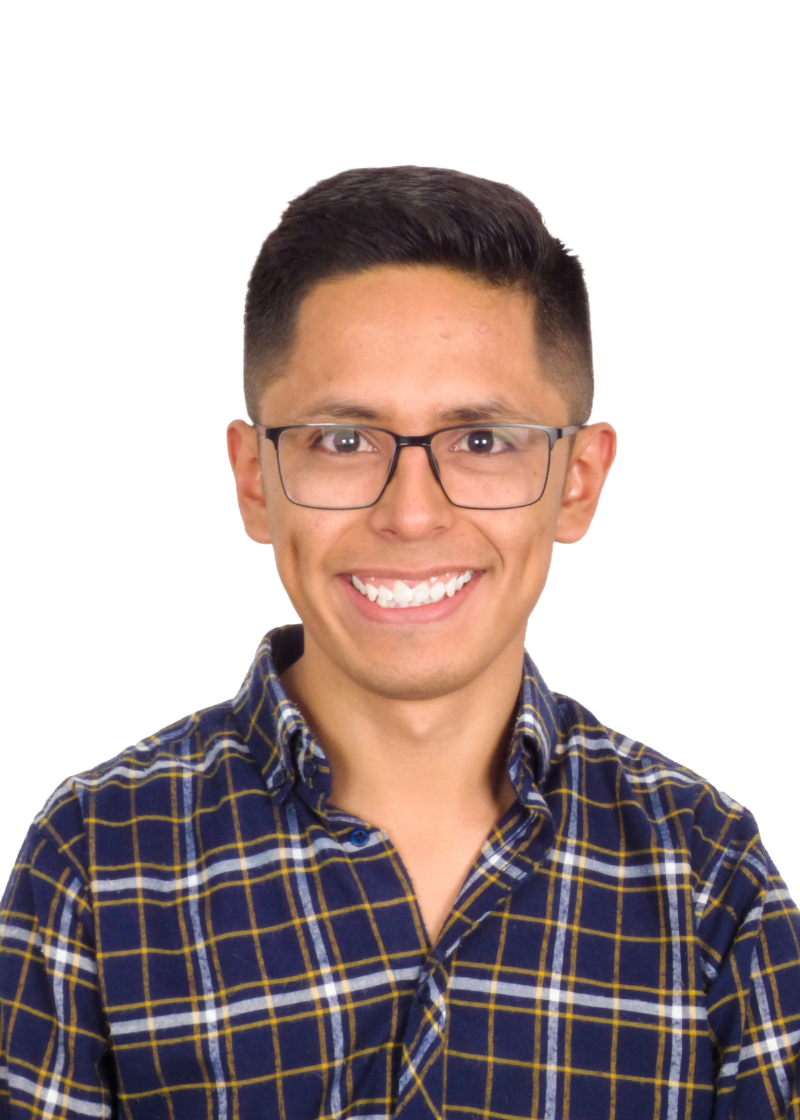
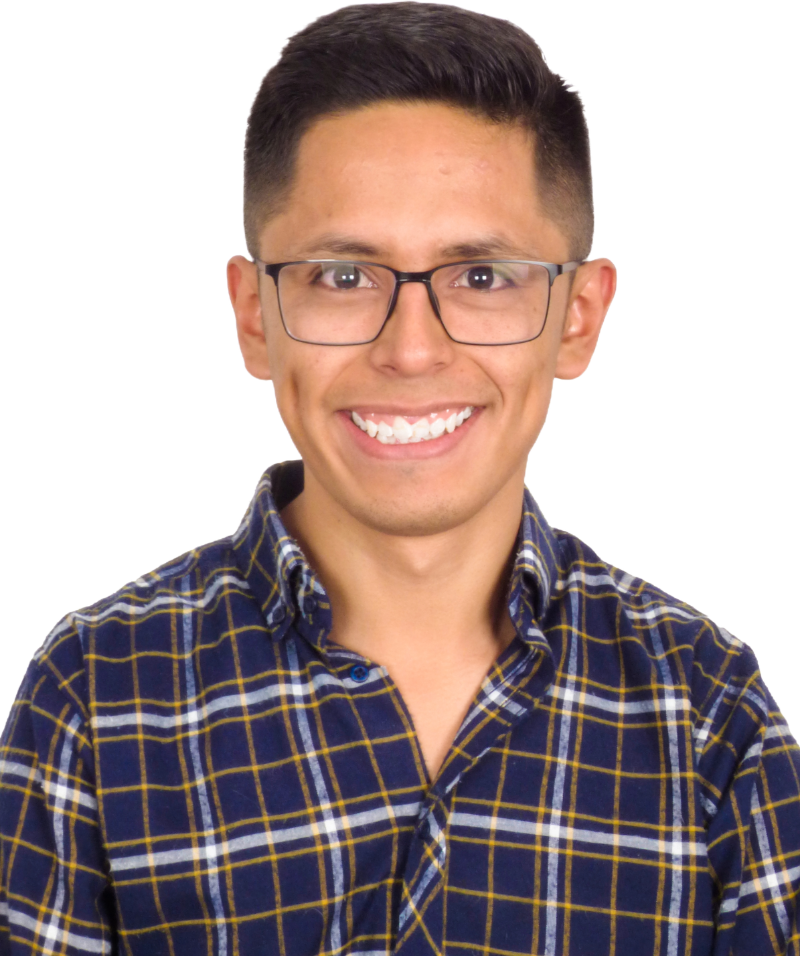
Animated profile pic

diff --git a/_sass/animate/_profile-pic.scss b/_sass/animate/_profile-pic.scss
@@ -1,38 +1,34 @@
-.team-person {
+.profile-person {
   align-items: center;
   display: flex;
   flex-direction: column;
-  width: 280px;
+  width: 200px;
+  margin: 0 auto;
 }
-.team-avatar-container {
+.profile-avatar-container {
   border-radius: 50%;
-  height: 312px;
+  height: 220px;
+  width: 400px;
   -webkit-tap-highlight-color: transparent;
   transform: scale(0.48);
   transition: transform 250ms cubic-bezier(0.4, 0, 0.2, 1);
-  width: 400px;
 }
-.team-avatar-container:after {
-  background-color: #f2f2f2;
-  content: "";
-  height: 10px;
-  position: absolute;
-  top: 390px;
-  width: 100%;
+.profile-avatar-container:hover {
+  transform: scale(0.5);
 }
-.team-avatar-container:hover {
-  transform: scale(0.54);
-}
-.team-container-inner {
+.profile-container-inner {
   clip-path: path(
-    "M 390,400 C 390,504.9341 304.9341,590 200,590 95.065898,590 10,504.9341 10,400 V 10 H 200 390 Z"
+    "M 390,400 C 390,504.9341 304.9341,590 200,590 95.065898,590 10,504.9341 10,400 V 160 H 200 390 Z"
   );
   position: relative;
   transform-origin: 50%;
-  top: -200px;
+  top: -300px;
+  //user-select: none; /* Evita selección de texto o elementos internos */
+  //-webkit-user-select: none; /* Compatibilidad con Safari y Chrome */
+  //-ms-user-select: none; /* Compatibilidad con IE/Edge antiguo */
 }
-.team-circle {
-  background-color: #fee7d3;
+.profile-circle {
+  background: linear-gradient(135deg, #054c1e, #0ebb4a);
   border-radius: 50%;
   cursor: pointer;
   height: 380px;
@@ -42,47 +38,43 @@
   top: 210px;
   width: 380px;
 }
-.team-img {
+.profile-img {
+  left: 35px;
+  top: 210px;
+  width: 330px;
   pointer-events: none;
   position: relative;
-  transform: translateY(20px) scale(1.15);
+  object-position: center; /* Mantiene la imagen centrada */
+  transform: translateY(20px) scale(1.1);
   transform-origin: 50% bottom;
   transition: transform 300ms cubic-bezier(0.4, 0, 0.2, 1);
 }
-.team-avatar-container:hover .team-img {
-  transform: translateY(0) scale(1.2);
+.profile-avatar-container:hover .profile-img {
+  transform: translateY(0) scale(1.12);
 }
-.team-img-1 {
-  left: 22px;
-  top: 164px;
-  width: 340px;
+.profile-circle-shadow {
+  position: absolute;
+  top: -90px; /* misma posición que profile-circle */
+  left: 10px; /* misma posición que profile-circle */
+  width: 380px; /* mismo tamaño que profile-circle */
+  height: 380px; /* mismo tamaño que profile-circle */
+  border-radius: 50%; /* para mantenerlo circular */
+  background: transparent; /* sin relleno */
+  pointer-events: none; /* para no interferir con eventos */
+  @include box-shadow(2); /* aplica la sombra desde tu mixin */
 }
-.team-img-2 {
-  left: -46px;
-  top: 174px;
-  width: 444px;
+
+.profile-description {
+  flex: 1;
+  min-width: 250px;
+  text-align: justify;
+  margin-left: 60px;
+  align-items: center;
 }
-.team-img-3 {
-  left: -16px;
-  top: 144px;
-  width: 466px;
-}
-.team-divider {
-  background-color: #ca6060;
-  height: 1px;
-  width: 160px;
-}
-.team-name {
-  color: #404245;
-  font-size: 36px;
-  font-weight: 600;
-  margin-top: 16px;
-  text-align: center;
-}
-.team-title {
-  color: #6e6e6e;
-  font-family: arial;
-  font-size: 14px;
-  font-style: italic;
-  margin-top: 4px;
+
+@media (max-width: 768px) {
+  .profile-description {
+    margin-left: 0; /* Remove left margin for proper alignment */
+    text-align: center; /* Optional: Center-align text */
+  }
 }

diff --git a/_sass/components/_header.scss b/_sass/components/_header.scss
@@ -83,6 +83,10 @@
     @include media-breakpoint-down(md) {
       font-size: map-get($base, font-size-h3-small);
     }
+    user-select: none;       /* Modern standard */
+    -webkit-user-select: none; /* Chrome, Safari */
+    -moz-user-select: none;    /* Firefox */
+    -ms-user-select: none;     /* Internet Explorer/Edge */
   }
 }
 

diff --git a/index.md b/index.md
@@ -11,11 +11,16 @@ titles:
 show_title: false
 ---
 
-<div style="display: flex; flex-wrap: wrap; align-items: center; margin-top: 40px;">
-
-  <div class="profile-image">
-    <img src="assets/images/profile/profile.png" alt="Daniel" title="Hi, I'm Daniel" width="180" height="180" class="circle shadow">
-  </div>
+<div style="display: flex; flex-wrap: wrap; align-items: center; ; margin-top: 40px">
+  <div class="profile-person" title="Hi, I'm Daniel">
+    <div class="profile-avatar-container">
+      <div class="profile-container-inner">
+        <img class="profile-circle"/>
+        <img class="profile-img profile-img-1" src="/assets/images/profile/profile.png" />
+      </div>
+      <div class="profile-circle-shadow"></div>
+    </div>
+  </div>  
   <div class="profile-description">
     <p>
       <b style="font-size: 22px; line-height: 0.5;">Mathematician </b> <br>
@@ -65,36 +70,3 @@ show_title: false
 - Aug. 2024 - Jun. 2025. **Universidad de los Andes**, Graduate Assistant - Mathematics Department.
 - Jul. 2024 - Aug. 2025. **Moaddel Law Firm**, Translator and Interpreter.
 - Mar. 2021 - Jun. 2023. **Universidad Nacional de Colombia - Sede Bogotá**, Tutor - *Grupos de Estudio Autónomo* (GEA).
-
-<style>
-/* General styles */
-.profile-image {
-  flex: 0 0 auto;
-  text-align: center;
-  position: relative;
-  width: 180px;
-  height: 180px;
-  margin: 0 auto; /* Center alignment for smaller screens */
-}
-
-.profile-description {
-  flex: 1;
-  min-width: 250px;
-  text-align: justify;
-  margin-left: 50px;
-  align-items: center;
-}
-
-/* Mobile-specific adjustments */
-@media (max-width: 768px) {
-  .profile-image {
-    margin: 0 auto; /* Center the image */
-    text-align: center;
-  }
-
-  .profile-description {
-    margin-left: 0; /* Remove left margin for proper alignment */
-    text-align: center; /* Optional: Center-align text */
-  }
-}
-</style>
